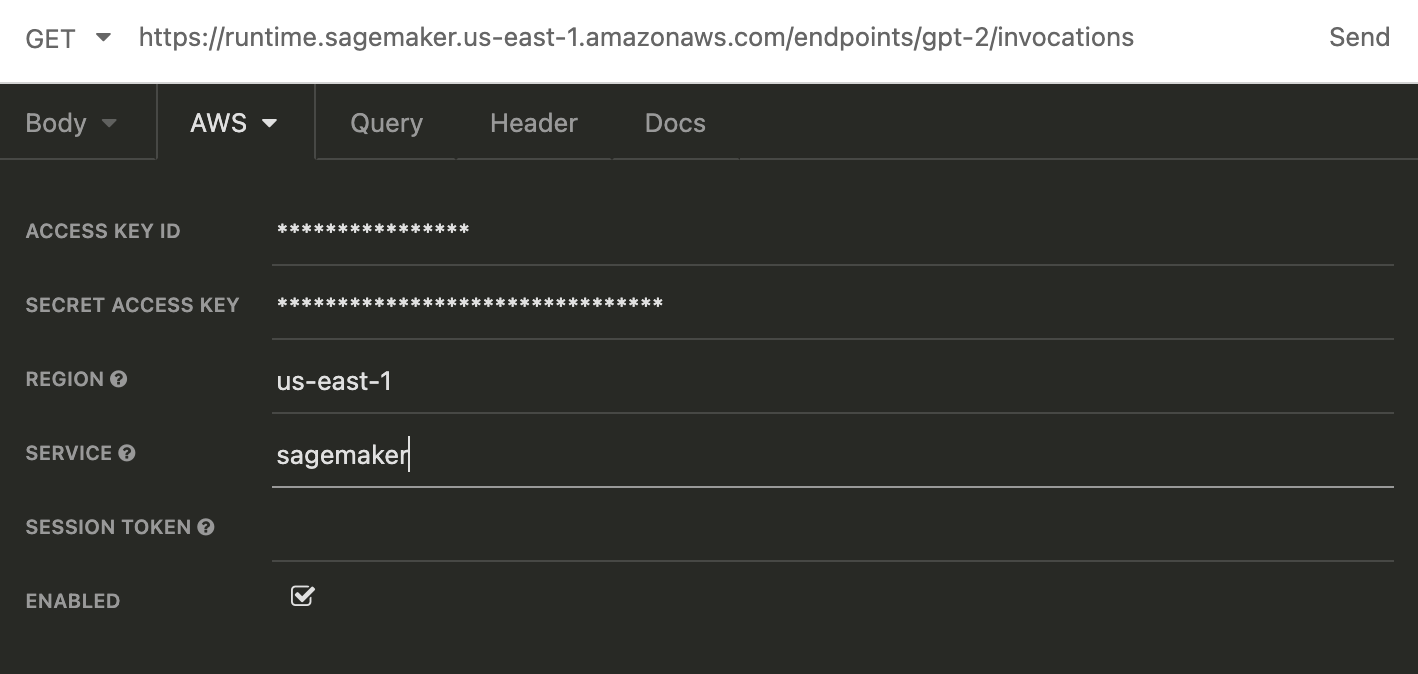
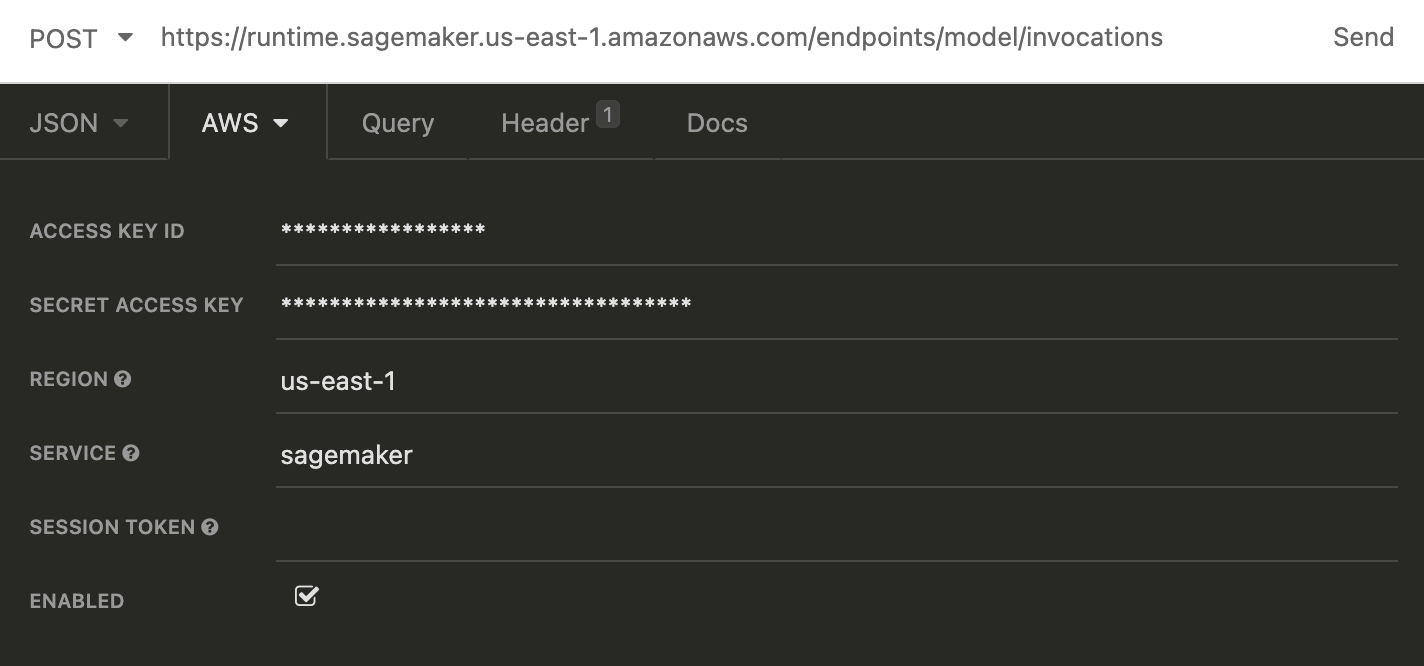
Update

diff --git a/docs/models/gpt-2/getting-started.md b/docs/models/gpt-2/getting-started.md
@@ -53,8 +53,8 @@ for example [using Python](https://docs.aws.amazon.com/general/latest/gr/sigv4-s
 To test the endpoint you can use the [Insonmia HTTP client](https://insomnia.rest)
 that supports AWS Authentication.
 
-Just select the Auth method `AWS IAM v4` and fill the credentials, region and use
-`sagemaker` as the service.
+Create a new `POST` request and select the Auth method `AWS IAM v4`,
+fill the credentials, region and use `sagemaker` as the service.
 
 ![Insonmia Auth](/assets/img/models/insonmia-aws-auth.png)
 
@@ -62,8 +62,7 @@ Select `JSON` as the body type and use the following test query:
 
 ```
 {
-    "input": "This is an input text",
-    "seed": 0
+    "input": "This is an input text"
 }
 ```
 
@@ -71,9 +70,9 @@ The result should be:
 
 ```
 [
-  "This is an input text string that has a single character.\n\nExample: This is the label of the message.\n\nA message is the textual content of a message. For example, a message consists of a message-id, a subject",
-  "This is an input text file.\n\nAn example input file would look like:\n\nInputFile. write! (\"foo.txt\", \"Hello world!\");\n\nYou can read and write the contents of a file using File#read",
-  "This is an input textbox for a user entered text.\n\n[ { \" text \" : \" Hello World \" }, { \" text \" : \" Goodbye World \" }, { \" text \" : \" Hello Again \" }, { \" text \" :"
+  "This is an input text box that will be used to input the password. The user may select a user name and password to save for later.\n\nPassword fields allow users to save themselves as a user on our server, which may be useful for",
+  "This is an input text for the next button.\n\nYou can also press the backspace key twice to erase the text to the right.\n\nPressing the backspace key again to clear the previously typed text will delete the previous line.",
+  "This is an input text for the widget, and it must be in the correct format. The format must be one of the following:\n\n\nText to enter on the form\n\nExample: What is the total distance in miles to your next destination"
 ]
 ```
 

diff --git a/docs/models/gpt-2/examples.md b/docs/models/gpt-2/examples.md
@@ -50,12 +50,6 @@
     >
     > Update, 8:20 p.m. PT: TMZ reports that Cyrus was unaware
 
-    Params:
-    ```
-    "max_length": 200
-    "seed": 1
-    ```
-
 
 
 === "LOTR"

diff --git a/docs/models/gpt-2/api.md b/docs/models/gpt-2/api.md
@@ -16,7 +16,7 @@ For example:
     "num_beams": 5,
     "no_repeat_ngram_size": 2,
     "num_return_sequences": 3,
-    "seed": 0
+    "seed": -1
 }
 ```
 
